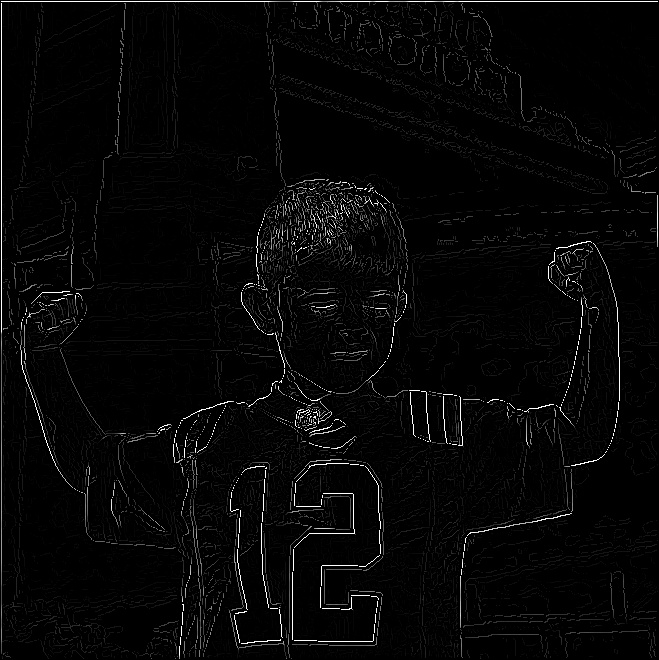
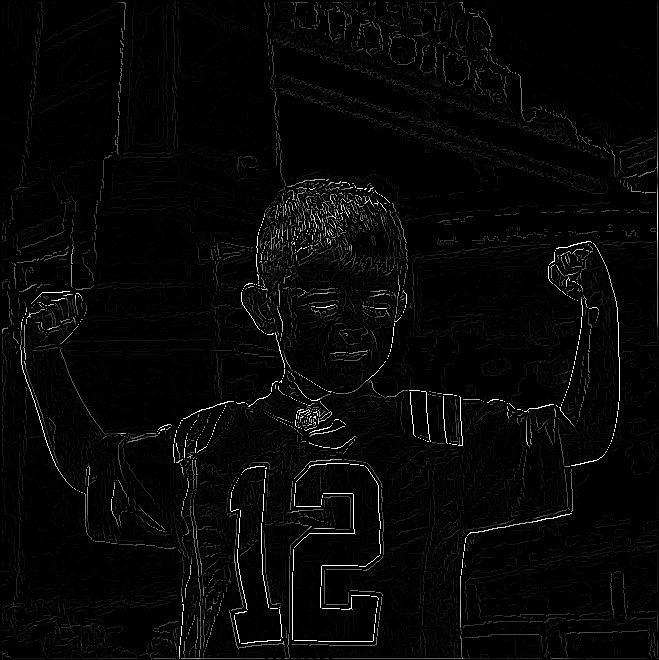
CUDAfinal

diff --git a/ParallelCanny.py b/ParallelCanny.py
@@ -1,4 +1,3 @@
-
 import numpy as np
 import cv2
 from numba import jit,double,cuda
@@ -6,7 +5,7 @@ import time
 import math
 
 
-limit = 50#input("Input image threshold for edge detector(Higher=less sensitive):")
+limit = 30#input("Input image threshold for edge detector(Higher=less sensitive):")
 int_limit = int(limit)
 
 
@@ -138,6 +137,31 @@ def nonmaxima(image,imageQ):
     
             
     return image_out_nmax
+
+@cuda.jit
+def nonmaxima_cuda(image,imagea,image_out_nmax):
+    (h,w)=image.shape
+    i, j = cuda.grid(2)
+    if 0 <= i and i< h and 0<=j and j<w:   
+            if(i==0 or i==h-1 or j==0 or j==w-1 ):
+                image_out_nmax[i][j]=0
+                
+            
+            tq=(imagea[i][j])%4
+            if(tq==0):
+                if(image[i,j]<=image[i,j-1] or image[i,j]<=image[i, j+1]):
+                    image_out_nmax[i][j]=0
+            if(tq==1):
+                if(image[i,j]<=image[i-1,j+1] or image[i,j]<=image[i+1,j-1]):
+                    image_out_nmax[i][j]=0
+            if(tq==2):
+                if(image[i,j]<=image[i-1,j] or image[i,j]<=image[i+1,j]):
+                    image_out_nmax[i][j]=0
+            if(tq == 3):
+                if(image[i, j] <= image[i-1, j-1] or image[i, j] <= image[i+1, j+1]):
+                    image_out_nmax[i][j]=0
+    
+            
     
 
 
@@ -210,7 +234,7 @@ def thres(image):
                 
     
     
-image =np.array(cv2.imread('Test2.jpg',cv2.IMREAD_GRAYSCALE))
+image =np.array(cv2.imread('400k.jpg',cv2.IMREAD_GRAYSCALE))
  
  # Create the data array - usually initialized some other way
 threadsperblock = (32, 32)
@@ -257,11 +281,15 @@ gradient_cuda[blockspergrid, threadsperblock](dev_gaussian_out, dev_image_out_gr
 image_out_grad = dev_image_out_grad.copy_to_host()
 image_out_angle = dev_image_out_angle.copy_to_host()
 
-###############################################################################
+#dev_image_out_nmax = cuda.device_array(image.shape)
+#nonmaxima_cuda[blockspergrid, threadsperblock](dev_image_out_grad,
+#             dev_image_out_angle, 
+#             dev_image_out_nmax)
+#nonmaxima_img = dev_image_out_nmax.copy_to_host()
+#
+end=time.time()
 
-#gaussian_out=gaussian_fast(image)
-
-#(image_out_grad,image_out_angle)=gradient_fast(gaussian_out) 
+print(end-start)
 
 nonmaxima_img=nonmaxima_fast(image_out_grad,image_out_angle)
 
@@ -271,14 +299,35 @@ nonmaxima_img=nonmaxima_fast(image_out_grad,image_out_angle)
 
 edgeimg=extendedge_fast(currentp,image_final,threshold)
 
-end=time.time()
+end2=time.time()
+#
+print(end2-start)
+###############################################################################
 
-print(end-start)
+#gaussian_out=gaussian_fast(image)
+#
+#(image_out_grad,image_out_angle)=gradient_fast(gaussian_out) 
+#
+#end=time.time()
+#
+#print(end-start)
+#
+#nonmaxima_img=nonmaxima_fast(image_out_grad,image_out_angle)
+#
+#(threshold,strong)=thres_fast(nonmaxima_img)
+#
+#(currentp,image_final)=hysteresis_fast(strong,threshold)
+#
+#edgeimg=extendedge_fast(currentp,image_final,threshold)
+#
+##end=time.time()
+##
+##print(end-start)
  
 
 
 
 #cv2.imwrite('gaussianoutput.jpg' , gaussian_out)
 cv2.imwrite('output.jpg' , image_out_grad)
-#cv2.imwrite('nonmaxima.jpg',nonmaxima_img)
+cv2.imwrite('nonmaxima.jpg',nonmaxima_img)
 cv2.imwrite('Final.jpg',edgeimg)
